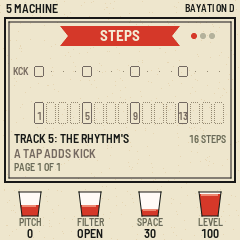
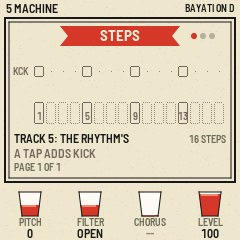
Manual and pictures for 0.21: PITCH slides, each track's CHORUS where SPACE was
The manual says 0.21 and has a What changed in 0.21 part before 0.20's.
PITCH slides a note sounding to its new pitch (a semitone 0.13 s, a fourth
0.55 s, an octave 1.2 s); a drum sound and locks move at once, and a turn
while the track records is kept as a lock. The home page's K3, the step
view's K3 and the MIDImix's bottom knob are the track's CHORUS; SPACE is on
the EFFECTS page's SENDS row, with CHORUS on its K4. CHORUS: none on a drum
sound, no lock on a step, not kept by a recording, no top value, out with
the MIXER's FX, kept with the settings, 0 in a 0.20 save. Going back to 0.20
after 0.21 has saved is said (checked in both simulators): its REVERB SENDs
take the DELAY SENDs' values, the MASTER EQ, the MIXER's FX, the
background's MUTE and PLAY's frozen tracks start over.

The hub card and the 12 manual pictures that show the home page or the step
view taken again from the 0.21 simulator, at the same moments as 0.20's
(0.20's script rebuilt and checked: it gives 0.20's pictures pixel for
pixel). Only the K3 glass differs: CHORUS 0, or -- on the kick. The other
14 pictures are the same in 0.21 and stay as they were.

Claude-Session: https://claude.ai/code/session_01FhBCqbPHzome1Dy2nfBv9m

Changed region(s): [[0.5542, 0.8458, 0.7, 0.9917]]

diff --git a/docs/MANUAL.md b/docs/MANUAL.md
@@ -2,7 +2,9 @@
 
 DABKE is a free firmware for the M-VAVE FM-1 that makes it an Arabic wedding keyboard. It has lead voices with quarter tones on any note, a drone, bass and backing from the left hand, and a rhythm box of darbuka, tabl, riq, daf, sagat, kick and claps. Eight tracks loop or freeze what you play, and an Akai MIDImix can work as its mixer.
 
-**Status.** This is version 0.20, a free public beta from STUDIOMORPHIK. It has been tested on one FM-1.
+**Status.** This is version 0.21, a free public beta from STUDIOMORPHIK. It has been tested on one FM-1.
+
+**New in 0.21.** Turn a track's PITCH while its notes sound and they slide to the new pitch. The MIDImix's bottom knob and the home page's K3 are each track's own CHORUS now, and SPACE is on the EFFECTS page's SENDS row. If you played 0.20, read What changed in 0.21, below.
 
 **New in 0.20.** New jobs for the buttons and the MIDImix: REC freezes the picked track, SEQ records its loop, and EDIT held a second is step mode. There is a MIXER and a MASTER EQ, and the screen has a new look. If you played 0.19, read What changed in 0.20, below, first.
 
@@ -11,6 +13,21 @@ DABKE is a free firmware for the M-VAVE FM-1 that makes it an Arabic wedding key
 **New in 0.17.** Each of the eight tracks keeps its own sound, so SAZ on track 2 and BUZUQ TREMOLO on track 3 play at the same time. SELECT on a picked track offers the 22 ready sounds and your MY SOUNDs, and the SOUND and ORNAMENTS pages edit the picked track's sound. The effects, the tempo, the maqam and the rhythm are still shared by the whole song. Saves from 0.16 load and sound as they did.
 
 ![The home page with the rhythm running: the singer on stage, the eight tracks as lanes under him, the rhythm's name at the bottom](img/screen-home.png "The home page, the rhythm running")
+
+---
+
+## What changed in 0.21
+
+PITCH slides, and each track has a CHORUS of its own where SPACE was. Everything else is as in 0.20, and everything 0.20 saved loads whole, each track's CHORUS at 0 (see Saving).
+
+| Part | In 0.20 | In 0.21 |
+| --- | --- | --- |
+| PITCH | A track's PITCH moved its notes at once | Turned while the track's notes sound, they slide to the new pitch: 0.13 s for a semitone, 0.55 s for a fourth, 1.2 s for an octave. A drum sound's pitch and locks move at once, as before |
+| Home page | Row 1: PITCH, FILTER, SPACE, LEVEL | Row 1: PITCH, FILTER, CHORUS, LEVEL. CHORUS is the track's own chorus, 0 to 100. A drum sound has none |
+| SENDS row | The EFFECTS page's row 4: DELAY SEND, REVERB SEND, SPACE | DELAY SEND, REVERB SEND, SPACE, CHORUS. SPACE is only here now. FX held a second puts CHORUS back to 0 with the sends |
+| MIDImix | Bottom knob SPACE. SOLO said KNOBS: PITCH FILTER, SPACE | Bottom knob CHORUS. SOLO says KNOBS: PITCH FILTER, CHORUS |
+| MIXER | FX took out the sends and BASS | FX takes out CHORUS too |
+| Locks | SPACE locked both sends on a held step, and a recording kept its moves | CHORUS cannot be locked to a step, and a recording does not keep its moves. SPACE on the SENDS row still locks both sends |
 
 ---
 
@@ -77,7 +94,7 @@ You can also install DABKE with any FM-1 installer that takes a `.fwsc` package.
 
 To go back to another firmware, install that one the same way. When an installer starts writing over USB while DABKE runs, DABKE first saves anything it had not saved yet. When you install DABKE again, it goes on where you left it: its saves stay in the flash, unless the other firmware wrote over them (see below). To begin again from DABKE's first start instead, hold SAVE while you switch the FM-1 on (see Start fresh, in Saving).
 
-DABKE 0.20 loads what 0.19 saved, whole (see Saving). DABKE 0.17 loads what 0.16 saved, and it sounds as it did. Going back to 0.16 after 0.17 has saved starts 0.16's settings fresh. The kept sounds stay.
+DABKE 0.21 loads what 0.20 and 0.19 saved, whole (see Saving). Going back to 0.20 after 0.21 has saved keeps the sounds, the loops, the steps and the locks. Each track's REVERB SEND then takes its DELAY SEND's value, the MASTER EQ goes flat, the MIXER's FX and the background's MUTE go back to how DABKE starts, and PLAY has no frozen tracks to bring back. DABKE 0.17 loads what 0.16 saved, and it sounds as it did. Going back to 0.16 after 0.17 has saved starts 0.16's settings fresh. The kept sounds stay.
 
 > Some other FM-1 firmwares keep their saves in the same part of the flash as DABKE. After you install one of them, DABKE can start fresh when you come back to it, as on its first start.
 
@@ -126,7 +143,7 @@ The home page shows the singer over the eight tracks. Its four knobs work on the
 
 | Row | K1 | K2 | K3 | K4 |
 | --- | --- | --- | --- | --- |
-| 1 TRACK | PITCH | FILTER | SPACE | LEVEL |
+| 1 TRACK | PITCH | FILTER | CHORUS | LEVEL |
 | 2 MIX | DELAY SEND | REVERB SEND | BASS | SOUND |
 | 3 PLAYING | HOW OFTEN | VIB DEPTH | GLIDE | ORNAMENT |
 
@@ -134,9 +151,9 @@ Row 1 is the picked track's strip as the MIDImix has it: its top knob, middle kn
 
 | Knob | What it does |
 | --- | --- |
-| PITCH | The track's pitch, an octave down to an octave up, drums too. PITCH STEPS says whether it moves by semitones or quarter tones. +1 1/4 means one and a quarter semitones up. |
+| PITCH | The track's pitch, an octave down to an octave up, drums too. PITCH STEPS says whether it moves by semitones or quarter tones. +1 1/4 means one and a quarter semitones up. Turned while the track's notes sound, they slide to the new pitch, slow at both ends: a semitone takes 0.13 s, a fourth 0.55 s and an octave 1.2 s. A note you play on the way starts where the slide is. A drum sound's pitch moves at once. So does a lock, and a turn made while the track records its loop is kept as a lock (see Loops). |
 | FILTER | Left: DARK, a low-pass that closes down to 150 Hz. OPEN in the middle. Right: THIN, a high-pass that rises to 2.5 kHz. |
-| SPACE | DELAY SEND and REVERB SEND together, each moved by as much. It shows their middle. |
+| CHORUS | The track's own chorus, 0 to 100, 0 as DABKE starts. It makes the sound wider, left and right. A drum sound has none: its glass shows `--`, and turning it says TRACK 5: CHORUS ONLY ON A NOTE SOUND. |
 | LEVEL | The track's volume, 0 to 100. Track 2's is DRONE VOL. |
 | DELAY SEND | How much of the track goes into the delay, 0 to 100. |
 | REVERB SEND | How much of the track goes into the reverb, 0 to 100. |
@@ -216,7 +233,7 @@ The rhythm plays tracks 5 to 8, and with LEFT KEYS on BASS also the bass line (t
 
 The ready sounds are MIJWIZ, MIJWIZ BUZZ, ZURNA, KEY LEAD, FAST LEAD, WHISTLE LEAD, SQUARE LEAD, VIOLIN, STRINGS, NEY, ACCORDION, ORGAN, BUZUQ, BUZUQ TREMOLO, SAZ, OUD, QANUN, QANUN TREMOLO, BRASS, WEDDING ZURNA, CASSETTE MIJWIZ and SHAABI LEAD. After them come the sounds you kept, MY SOUND 1 to MY SOUND 8. SELECT on the home page goes through them on the picked track: they are its LEAD sounds (see Any sound on any track).
 
-Each track keeps its own full sound: its instrument, the SOUND page's knobs (apart from VEL AMOUNT and the arpeggio), the vibrato and the ornaments. A track's LEVEL, sends, FILTER, BASS, PITCH and MUTE are its own too, and stay when its sound changes. The effects (the EFFECTS page's first three rows and the MASTER EQ), the tempo, the maqam, the rhythm, KEY TOUCH, PRESSURE, VEL AMOUNT and the arpeggio are shared by all the tracks.
+Each track keeps its own full sound: its instrument, the SOUND page's knobs (apart from VEL AMOUNT and the arpeggio), the vibrato and the ornaments. A track's LEVEL, sends, CHORUS, FILTER, BASS, PITCH and MUTE are its own too, and stay when its sound changes. The effects (the EFFECTS page's first three rows and the MASTER EQ), the tempo, the maqam, the rhythm, KEY TOUCH, PRESSURE, VEL AMOUNT and the arpeggio are shared by all the tracks.
 
 On track 1, a ready sound or a MY SOUND also sets the effects on the EFFECTS page's first three rows, as ALL did in 0.19: WEDDING ZURNA brings its PA and drive, CASSETTE MIJWIZ its tape wobble, age and hiss. On any other track it sets that track's sound alone and never the effects, because the effects work on the whole song. Picking a sound never changes another track's sound. The drone, the levels, the rhythm, the arpeggio and the maqam stay as they are.
 
@@ -450,7 +467,7 @@ Notes land on the nearest step of the rhythm, or of the arpeggio when it is on a
 
 A drum track records the drums you play on the keys, each hit on the step it falls on. It is yours from the first hit. With the rhythm stopped, your first hit starts it. A drum track's loop is its own steps: SEQ stops them and plays them again as it does a loop, and SEQ held a second gives the track back to the rhythm.
 
-While a track records, turning its PITCH, FILTER, SPACE, DELAY SEND or REVERB SEND (on the home page, or its MIDImix knobs) is kept as locks on the steps the recording passes, so the move comes back with the loop. Its LEVEL is not kept.
+While a track records, turning its PITCH, FILTER, DELAY SEND, REVERB SEND or SPACE (on the home page, the EFFECTS page or its MIDImix knobs) is kept as locks on the steps the recording passes, so the move comes back with the loop. Its LEVEL and its CHORUS are not kept.
 
 The loops play whenever the rhythm runs, apart from those SEQ stopped. A track holds up to 128 notes, and all the tracks 512: past that, NO ROOM FOR MORE NOTES.
 
@@ -471,7 +488,7 @@ Hold EDIT a second for step mode (STEP MODE: WHITE KEYS ARE STEPS). It starts no
 | Upper half | A drum track: its drums lane by lane. A note track: its notes by pitch, as long as they sound. |
 | Row of steps | The steps as the white keys have them: filled where something of yours begins, outlined where the rhythm plays, dotted where empty. A blue padlock on a locked step, a line under the step playing, a frame round the step held. A track longer than a page has a small box a page at the left: the one shown dark, the one playing red. |
 | Lines of words | The track and whose it is (YOURS, THE RHYTHM'S or EMPTY) and its length. What a tap adds, and the track's locks counted. The page shown, as PAGE 1 OF 2. |
-| K1 to K4 | The home page's row shown: the picked track's PITCH, FILTER, SPACE and LEVEL first. HOME again: the next row. |
+| K1 to K4 | The home page's row shown: the picked track's PITCH, FILTER, CHORUS and LEVEL first. HOME again: the next row. |
 
 ### The white keys are steps
 
@@ -488,7 +505,7 @@ A page is a bar: 16 steps, or as many whole bars of the rhythm as fit in 16 (12 
 
 Hold a step and turn a knob: that knob is locked on that step. From that step to the track's next step with a note or a hit, the knob holds the lock's value, then goes back. The top line names the step's locks, for example STEP 3: FILTER DARK 20, and the knob's value shows in blue. A small padlock by a knob's name means the track has a lock of that knob somewhere.
 
-Most knobs that turn through values can be locked: K1 to K4 of the step view, the knobs of the SOUND, ORNAMENTS, EFFECTS and RHYTHM pages, and the MIDImix's knobs and faders. On a knob page in step mode, the track's steps show under the knobs, so you can hold a step and lock that page's knob. A lock of one of a sound's knobs, such as TONE or VIB DEPTH, works on the sound the page shows and no other: VIB DEPTH locked on a step of track 2, with SAZ on it, changes track 2's vibrato, and the other tracks keep theirs. When a control cannot be locked, the screen says so: the tempo, the rhythm, choices such as ORNAMENT, the MIXER's MUTE, FX and SOLO, the MASTER EQ and FADE are among them.
+Most knobs that turn through values can be locked: K1 to K4 of the step view, the knobs of the SOUND, ORNAMENTS, EFFECTS and RHYTHM pages, and the MIDImix's knobs and faders. On a knob page in step mode, the track's steps show under the knobs, so you can hold a step and lock that page's knob. A lock of one of a sound's knobs, such as TONE or VIB DEPTH, works on the sound the page shows and no other: VIB DEPTH locked on a step of track 2, with SAZ on it, changes track 2's vibrato, and the other tracks keep theirs. When a control cannot be locked, the screen says so, as in CHORUS CANNOT BE LOCKED TO A STEP: the tempo, the rhythm, choices such as ORNAMENT, each track's CHORUS, the MIXER's MUTE, FX and SOLO, the MASTER EQ and FADE are among them.
 
 ![A knob page in step mode: TRACK, LENGTH, DRUM and PITCH STEPS over the kick's steps](img/fx-track.png "A knob page in step mode: the steps under the knobs")
 
@@ -515,7 +532,7 @@ REC again lets everything on the track go (TRACK 1 LET GO). A drum sound holds n
 
 Freeze several tracks and they sound together while the keys play another. REC ARM on the MIDImix freezes its strip's track, or lets it go, without picking it. Its light is lit while that track is frozen.
 
-OCT- and OCT+ do not move frozen notes. The track's PITCH, its TRANSPOSE and TUNE, and a quarter tone set with EDIT do move them, and they stay there. A pitch wheel and the keys' pressure bend frozen notes only while you move them.
+OCT- and OCT+ do not move frozen notes. The track's PITCH slides them to its new pitch. Its TRANSPOSE and TUNE, and a quarter tone set with EDIT, move them too. They stay there. A pitch wheel and the keys' pressure bend frozen notes only while you move them.
 
 A new sound on a frozen track keeps its notes sounding, in the new sound. A drum sound holds no notes, so on a drum sound they stop (TRACK 3 LET GO).
 
@@ -562,15 +579,19 @@ Hold ARP for its panel: eight controls in two rows. The row on K1 to K4 is dark,
 
 ## 16. Saving
 
-DABKE keeps everything you set by itself: every track's sound, every page's settings, the maqam, the rhythm and the tempo, each track's LEVEL, sends, FILTER, BASS, PITCH, MUTE and FX, the background's MUTE and FX, the MASTER EQ, the loops, the steps and the locks. They come back when the FM-1 starts.
+DABKE keeps everything you set by itself: every track's sound, every page's settings, the maqam, the rhythm and the tempo, each track's LEVEL, sends, CHORUS, FILTER, BASS, PITCH, MUTE and FX, the background's MUTE and FX, the MASTER EQ, the loops, the steps and the locks. They come back when the FM-1 starts.
 
 It writes them a few seconds after your last change, in a quiet moment: with the rhythm stopped, nothing recording, no key down and the sound faded. Writing to the flash stops the sound for a moment, which is why it waits. Frozen notes never fade, so then it writes a minute after the change. So before you switch the FM-1 off, press PLAY to stop everything and wait a few seconds.
 
 Some things are not kept: step mode, the SOLOs, which loops SEQ stopped, the MIDImix's master fader and FADE's place. DABKE starts with step mode off, nothing soloed, every loop ready to play with the rhythm, the whole level full and FADE at 0. Nothing sounds when it starts. The tracks PLAY stopped while frozen are kept, and PLAY brings them back. A track still frozen and sounding when the FM-1 goes off is not kept.
 
+### From 0.20
+
+DABKE 0.21 loads what 0.20 saved, whole. Each track's CHORUS starts at 0, so the tracks sound as they did.
+
 ### From 0.19
 
-DABKE 0.20 loads what 0.19 saved, whole: every track's sound, the loops, the steps, the locks and the kept sounds. In 0.19 one send a track, EFFECT, fed both the delay and the reverb, so each track's REVERB SEND starts where its EFFECT was. The MASTER EQ starts flat and every track's effects in. With ALL picked in 0.19, DABKE opens on track 1.
+DABKE 0.21 loads what 0.19 saved, whole, as 0.20 did: every track's sound, the loops, the steps, the locks and the kept sounds. In 0.19 one send a track, EFFECT, fed both the delay and the reverb, so each track's REVERB SEND starts where its EFFECT was. The MASTER EQ starts flat and every track's effects in. With ALL picked in 0.19, DABKE opens on track 1.
 
 ### Keep a sound
 
@@ -678,7 +699,7 @@ The first three rows and the MASTER EQ work on the whole song and are the same w
 | 1 DELAY AND REVERB | DELAY | DELAY TIME | REPEATS | REVERB |
 | 2 WEDDING PA | DRIVE | CHORUS | WEDDING PA | BRIGHTNESS |
 | 3 TAPE | WOBBLE | TAPE AGE | HISS | DELAY SYNC |
-| 4 SENDS | DELAY SEND | REVERB SEND | SPACE | (none) |
+| 4 SENDS | DELAY SEND | REVERB SEND | SPACE | CHORUS |
 | 5 TONE | FILTER | BASS | PITCH | LEVEL |
 | 6 MASTER EQ | LOW | MID | HIGH | (none) |
 
@@ -689,14 +710,16 @@ The first three rows and the MASTER EQ work on the whole song and are the same w
 | REPEATS | 0 to 90. |
 | REVERB | 0 to 100: a hall. Each track's DELAY SEND and REVERB SEND set how much of it goes into the delay and into the reverb. |
 | DRIVE | 0 to 100: the lead, the drone and the left hand pushed into distortion. The bass and the drums stay clean. |
-| CHORUS | 0 to 100, on the lead, the drone and the left hand. |
+| CHORUS, row 2 | 0 to 100: one chorus for the whole song, on the lead, the drone and the left hand. |
 | WEDDING PA | 0 to 100: the whole sound through a wedding hall's PA, with no lows, a horn's honk, pushed hard, with the hall's slap-back. |
 | BRIGHTNESS | 0 to 100: a filter on the whole sound. 100 is open. |
 | WOBBLE | 0 to 100: the pitch wobbles, as on an old cassette. |
 | TAPE AGE | 0 to 100: a worn tape, saturated, with fewer highs and lows. |
 | HISS | 0 to 100: tape hiss. |
 | DELAY SYNC | OWN TIME (DELAY TIME), or 1/8, 3/16, 1/4: the echo in time with the tempo. |
-| DELAY SEND, REVERB SEND, SPACE | The picked track's sends, as on the home page (see The home page). |
+| DELAY SEND, REVERB SEND | The picked track's sends, as on the home page's MIX row (see The home page). |
+| SPACE | DELAY SEND and REVERB SEND together, each moved by as much. It shows their middle. |
+| CHORUS, row 4 | The picked track's own chorus, as on the home page. |
 | FILTER, BASS, PITCH, LEVEL | The picked track's tone and level, as on the home page. |
 | LOW | A shelf under 250 Hz. |
 | MID | A wide bell at 1 kHz. |
@@ -706,7 +729,7 @@ The MASTER EQ is the last thing on the whole sound, after every effect. LOW, MID
 
 ### The background's rows
 
-Hold SEL and press the ninth white key, G4: rows 4 and 5 become the background's, the rhythm's drums, which are every track with a drum sound. BACKGROUND SENDS has DELAY SEND, REVERB SEND and SPACE, moving all the drum tracks' sends together. BACKGROUND TONE has KIT TONE, LOW / HIGH and KIT TUNE, as on the RHYTHM page, row 7, and DRUMS, the volume of all the drums together. With no drum sound on any track, the sends show `--`, and turning them says NO TRACK HAS A DRUM SOUND. Hold SEL and press a track's key to give the rows back to that track.
+Hold SEL and press the ninth white key, G4: rows 4 and 5 become the background's, the rhythm's drums, which are every track with a drum sound. BACKGROUND SENDS has DELAY SEND, REVERB SEND and SPACE, moving all the drum tracks' sends together, and no CHORUS. BACKGROUND TONE has KIT TONE, LOW / HIGH and KIT TUNE, as on the RHYTHM page, row 7, and DRUMS, the volume of all the drums together. With no drum sound on any track, the sends show `--`, and turning them says NO TRACK HAS A DRUM SOUND. Hold SEL and press a track's key to give the rows back to that track.
 
 ---
 
@@ -789,7 +812,7 @@ The page shows the eight tracks and the background, BG, side by side. Each has i
 | Knob | What it does |
 | --- | --- |
 | LEVEL | The track's volume, 0 to 100, as its MIDImix fader. |
-| FX | Left: the track's effects out, its delay and reverb sends and its BASS, each kept as set (TRACK 3: EFFECTS OFF). Right: back in (TRACK 3: EFFECTS ON). It shows `-` while the track has none of them set. |
+| FX | Left: the track's effects out, its delay and reverb sends, its CHORUS and its BASS, each kept as set (TRACK 3: EFFECTS OFF). Right: back in (TRACK 3: EFFECTS ON). It shows `-` while the track has none of them set. |
 | MUTE | Right: the track muted (TRACK 3: MUTE ON). Left: on again (TRACK 3: MUTE OFF). |
 | SOLO | Right: the track soloed (TRACK 2: SOLO ON), and only soloed tracks are heard. Left: off. With several soloed, all of them are heard. |
 
@@ -804,6 +827,8 @@ FADE moves between two settings of the tracks: the sound as set, and a top sound
 1. Turn FADE to its top, 97 and up. The screen says FADER UP: THIS IS THE TOP SOUND.
 2. Move the controls you want to change, on the home page or on the MIDImix's strips: you set their top values.
 3. Turn FADE down: the sound as set (FADER DOWN: THE SOUND AS SET). In between, those controls move from their set values toward their top values.
+
+The other controls, CHORUS among them, have no top value: with FADE at its top they change the sound as set.
 
 Turn TOP SOUND to clear the top sound (TOP SOUND CLEARED). The top sound is kept with the settings. FADE's place is not: DABKE starts with it at 0.
 
@@ -823,9 +848,9 @@ DABKE reads the MIDImix as it comes from the factory, on channel 1.
 | --- | --- | --- |
 | Strips 1 to 8 | Tracks 1 to 8. Nothing on a strip picks its track. | The picked track: SEL held and a white key |
 | Fader | The track's LEVEL. | K4 on the home page, or LEVEL on the MIXER |
-| Top knob | The track's PITCH: in tune in the middle, an octave down or up at the ends, in steps as PITCH STEPS says. | K1 on the home page |
+| Top knob | The track's PITCH: in tune in the middle, an octave down or up at the ends, in steps as PITCH STEPS says. A note sounding slides there (see The home page). | K1 on the home page |
 | Middle knob | The track's FILTER. | K2 on the home page |
-| Bottom knob | The track's SPACE: its delay and reverb sends together. | K3 on the home page |
+| Bottom knob | The track's CHORUS. A drum sound has none (TRACK 5: CHORUS ONLY ON A NOTE SOUND). | K3 on the home page, or CHORUS on the EFFECTS page's SENDS row |
 | SOLO | Tapped: the knobs' EFFECTS layer. The top knob is then the track's DELAY SEND, the middle knob DELAY TIME (the one delay all the tracks share: any strip's middle knob sets it), the bottom knob the track's REVERB SEND. BANK LEFT and RIGHT are lit while the knobs are on it. Tapped again: back. | The home page's MIX row; DELAY TIME on the EFFECTS page, row 1 |
 | MUTE | The track muted, or on again. Lit while it is muted. | MUTE on the MIXER |
 | REC ARM | Freezes the track, or lets it go, as REC does. Lit while the track holds anything. | REC |
@@ -834,9 +859,9 @@ DABKE reads the MIDImix as it comes from the factory, on channel 1.
 
 The master fader is no longer the scene fader: that is FADE, on the EDIT page (see The scene).
 
-A fader or a knob moves its own strip's track and never picks it: the keys stay where they are while you ride another track. The screen says what moved, for example TRACK 6: LEVEL 70. SOLO says which layer the knobs are on: KNOBS: EFFECTS DELAY, TIME, REVERB, or KNOBS: PITCH FILTER, SPACE. The SEND ALL button sends every value at once: DABKE takes them all and says nothing. No light blinks: each one shows what its label says. The MIDImix lights SOLO only while it is held, so BANK LEFT and RIGHT show the EFFECTS layer instead.
+A fader or a knob moves its own strip's track and never picks it: the keys stay where they are while you ride another track. The screen says what moved, for example TRACK 6: LEVEL 70. SOLO says which layer the knobs are on: KNOBS: EFFECTS DELAY, TIME, REVERB, or KNOBS: PITCH FILTER, CHORUS. The SEND ALL button sends every value at once: DABKE takes them all and says nothing. No light blinks: each one shows what its label says. The MIDImix lights SOLO only while it is held, so BANK LEFT and RIGHT show the EFFECTS layer instead.
 
-In step mode, with a step held, a strip's knob or fader is locked on that step. While a track records its loop, its knobs are kept as locks on the steps the recording passes. Its fader is not.
+In step mode, with a step held, a strip's knob or fader is locked on that step, but not CHORUS: the screen says CHORUS CANNOT BE LOCKED TO A STEP. While a track records its loop, its PITCH, FILTER and sends are kept as locks on the steps the recording passes. Its fader and its CHORUS are not.
 
 ---
 
@@ -878,7 +903,7 @@ Over the USB cable the FM-1 is also a sound card. Your computer can record DABKE
 
 **NO ROOM FOR MORE NOTES, NO ROOM FOR MORE LOCKS.** A track holds 128 notes, all the tracks 512, and all the locks 240. Clear a loop you no longer need (SEQ held a second on its track), or remove some steps or locks.
 
-**CANNOT BE LOCKED TO A STEP.** That control cannot hold a value of its own on a step. The tempo, the rhythm, choices such as ORNAMENT, the MIXER's MUTE, FX and SOLO, the MASTER EQ and FADE are among them.
+**CANNOT BE LOCKED TO A STEP.** That control cannot hold a value of its own on a step. The tempo, the rhythm, choices such as ORNAMENT, each track's CHORUS, the MIXER's MUTE, FX and SOLO, the MASTER EQ and FADE are among them.
 
 **The installer does not find the FM-1.** Use Chrome or Edge, and allow MIDI when the browser asks. Close other programs that use the FM-1's MIDI port.
 
